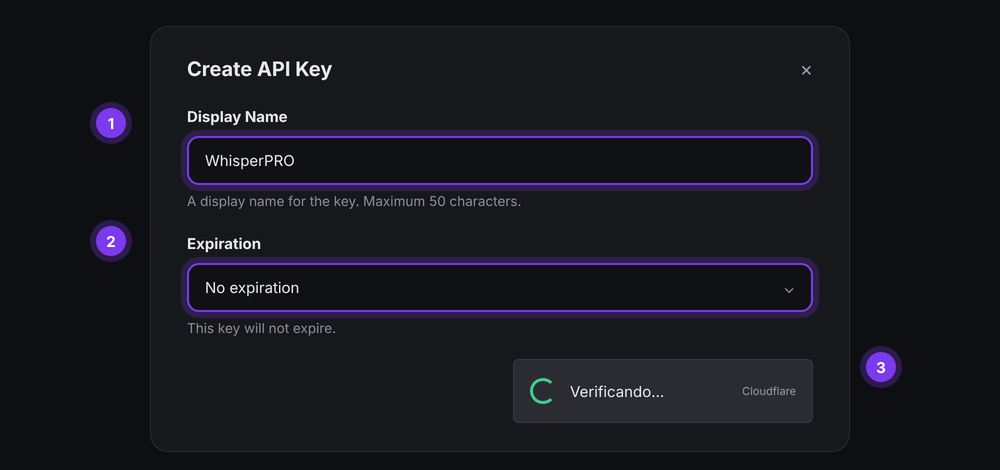
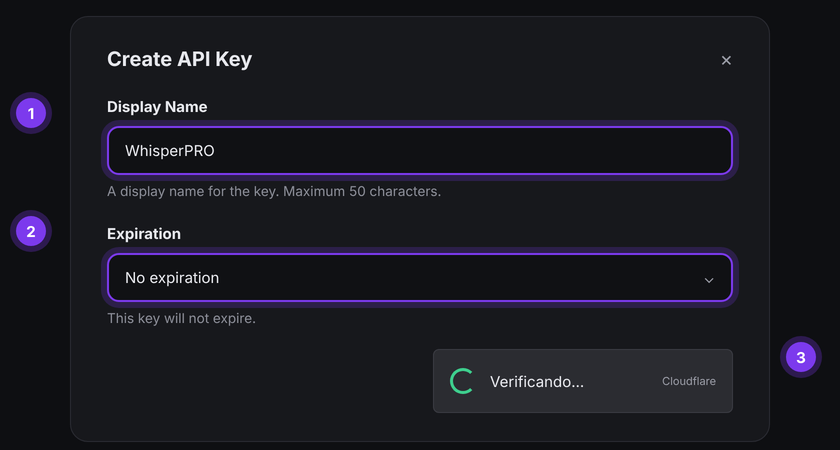
Landing en celular: encabezado, botones, tablas legales como tarjetas, toques más grandes y sin desborde horizontal
Claude-Session: https://claude.ai/code/session_01846rBp5x7d49h8jxCvNna2

diff --git a/landing/licencias/index.html b/landing/licencias/index.html
@@ -49,6 +49,18 @@ figure{margin:14px 0 6px}figure img{display:block;width:100%;height:auto;border-
 footer{border-top:1px solid #1b1e29;margin-top:72px;padding-top:28px}
 footer nav{display:flex;flex-wrap:wrap;gap:10px 26px;margin-bottom:16px}footer nav a{color:#aab0c4;text-decoration:none;font-size:15px}footer nav a:hover{color:#fff}
 @media (max-width:640px){.toc{columns:1}body{font-size:17px}}
+a{overflow-wrap:anywhere}
+@media (max-width:640px){
+.wrap{padding:24px 18px 72px}.top{margin-bottom:30px}
+table.resp,table.resp tbody,table.resp tr,table.resp td{display:block;width:100%}
+table.resp tr.cab{display:none}
+table.resp tr{border:1px solid #1b1e29;border-radius:14px;padding:8px 14px;margin:12px 0;background:#0e1016}
+table.resp td{border:0;padding:6px 0}
+table.resp td::before{content:attr(data-l);display:block;font:600 11px 'WP Mono',monospace;letter-spacing:.07em;color:#8b92a8;text-transform:uppercase;margin-bottom:2px}
+footer nav a{display:inline-block;padding:9px 0}
+.btn{display:block;width:100%;text-align:center;border:0}
+}
+
 </style>
 </head>
 <body><div class="wrap">
@@ -59,27 +71,27 @@ footer nav{display:flex;flex-wrap:wrap;gap:10px 26px;margin-bottom:16px}footer n
 <p>WhisperPRO está hecho por FESTUDIOS y usa componentes de terceros que se distribuyen con sus propias licencias. Agradecemos a sus autores. Esta lista resume los principales; los textos completos de cada licencia están disponibles en los proyectos originales y, para las tipografías, en la carpeta <code>fonts</code> de este sitio.</p>
 
 <h2>Tipografías</h2>
-<table><tr><th>Componente</th><th>Licencia</th></tr>
-<tr><td>Bricolage Grotesque — © 2022 The Bricolage Grotesque Project Authors</td><td>SIL Open Font License 1.1</td></tr>
-<tr><td>Martian Mono — © Evil Martians y colaboradores</td><td>SIL Open Font License 1.1</td></tr></table>
+<table class="resp"><tr class="cab"><th>Componente</th><th>Licencia</th></tr>
+<tr><td data-l="Componente">Bricolage Grotesque — © 2022 The Bricolage Grotesque Project Authors</td><td data-l="Licencia">SIL Open Font License 1.1</td></tr>
+<tr><td data-l="Componente">Martian Mono — © Evil Martians y colaboradores</td><td data-l="Licencia">SIL Open Font License 1.1</td></tr></table>
 <p>Las licencias de las dos tipografías están en <a href="fonts/LICENCIA-Bricolage-Grotesque-OFL.txt">LICENCIA-Bricolage-Grotesque-OFL.txt</a> y <a href="fonts/LICENCIA-Martian-Mono-OFL.txt">LICENCIA-Martian-Mono-OFL.txt</a>.</p>
 
 <h2>Aplicación de escritorio</h2>
-<table><tr><th>Componente</th><th>Licencia</th></tr>
-<tr><td>Python</td><td>Python Software Foundation License</td></tr>
-<tr><td>NumPy</td><td>BSD-3-Clause</td></tr>
-<tr><td>sounddevice</td><td>MIT</td></tr>
-<tr><td>keyboard</td><td>MIT</td></tr>
-<tr><td>pyperclip</td><td>BSD-3-Clause</td></tr>
-<tr><td>python-dotenv</td><td>BSD-3-Clause</td></tr>
-<tr><td>Pillow</td><td>MIT-CMU (HPND)</td></tr>
-<tr><td>pywebview</td><td>BSD-3-Clause</td></tr>
-<tr><td>pystray</td><td>LGPL-3.0</td></tr>
-<tr><td>Groq SDK, OpenAI SDK, Google Gen AI SDK</td><td>Apache-2.0</td></tr>
-<tr><td>faster-whisper (modo local, versión para desarrolladores)</td><td>MIT</td></tr>
-<tr><td>PyInstaller (empaquetado)</td><td>GPL-2.0 con excepción para aplicaciones empaquetadas</td></tr>
-<tr><td>Inno Setup (instalador)</td><td>Inno Setup License</td></tr>
-<tr><td>Microsoft Edge WebView2 Runtime</td><td>Términos de Microsoft</td></tr></table>
+<table class="resp"><tr class="cab"><th>Componente</th><th>Licencia</th></tr>
+<tr><td data-l="Componente">Python</td><td data-l="Licencia">Python Software Foundation License</td></tr>
+<tr><td data-l="Componente">NumPy</td><td data-l="Licencia">BSD-3-Clause</td></tr>
+<tr><td data-l="Componente">sounddevice</td><td data-l="Licencia">MIT</td></tr>
+<tr><td data-l="Componente">keyboard</td><td data-l="Licencia">MIT</td></tr>
+<tr><td data-l="Componente">pyperclip</td><td data-l="Licencia">BSD-3-Clause</td></tr>
+<tr><td data-l="Componente">python-dotenv</td><td data-l="Licencia">BSD-3-Clause</td></tr>
+<tr><td data-l="Componente">Pillow</td><td data-l="Licencia">MIT-CMU (HPND)</td></tr>
+<tr><td data-l="Componente">pywebview</td><td data-l="Licencia">BSD-3-Clause</td></tr>
+<tr><td data-l="Componente">pystray</td><td data-l="Licencia">LGPL-3.0</td></tr>
+<tr><td data-l="Componente">Groq SDK, OpenAI SDK, Google Gen AI SDK</td><td data-l="Licencia">Apache-2.0</td></tr>
+<tr><td data-l="Componente">faster-whisper (modo local, versión para desarrolladores)</td><td data-l="Licencia">MIT</td></tr>
+<tr><td data-l="Componente">PyInstaller (empaquetado)</td><td data-l="Licencia">GPL-2.0 con excepción para aplicaciones empaquetadas</td></tr>
+<tr><td data-l="Componente">Inno Setup (instalador)</td><td data-l="Licencia">Inno Setup License</td></tr>
+<tr><td data-l="Componente">Microsoft Edge WebView2 Runtime</td><td data-l="Licencia">Términos de Microsoft</td></tr></table>
 
 <h2>Servicios de terceros</h2>
 <p>La transcripción y la corrección se hacen con servicios externos que conectás con tu propia clave (por defecto, Groq). Su uso se rige por los términos y la política de privacidad de cada proveedor. Los nombres y marcas de terceros mencionados pertenecen a sus dueños y se usan solo para identificar compatibilidad.</p>

diff --git a/landing/contacto/index.html b/landing/contacto/index.html
@@ -49,6 +49,18 @@ figure{margin:14px 0 6px}figure img{display:block;width:100%;height:auto;border-
 footer{border-top:1px solid #1b1e29;margin-top:72px;padding-top:28px}
 footer nav{display:flex;flex-wrap:wrap;gap:10px 26px;margin-bottom:16px}footer nav a{color:#aab0c4;text-decoration:none;font-size:15px}footer nav a:hover{color:#fff}
 @media (max-width:640px){.toc{columns:1}body{font-size:17px}}
+a{overflow-wrap:anywhere}
+@media (max-width:640px){
+.wrap{padding:24px 18px 72px}.top{margin-bottom:30px}
+table.resp,table.resp tbody,table.resp tr,table.resp td{display:block;width:100%}
+table.resp tr.cab{display:none}
+table.resp tr{border:1px solid #1b1e29;border-radius:14px;padding:8px 14px;margin:12px 0;background:#0e1016}
+table.resp td{border:0;padding:6px 0}
+table.resp td::before{content:attr(data-l);display:block;font:600 11px 'WP Mono',monospace;letter-spacing:.07em;color:#8b92a8;text-transform:uppercase;margin-bottom:2px}
+footer nav a{display:inline-block;padding:9px 0}
+.btn{display:block;width:100%;text-align:center;border:0}
+}
+
 </style>
 </head>
 <body><div class="wrap">
@@ -59,19 +71,19 @@ footer nav{display:flex;flex-wrap:wrap;gap:10px 26px;margin-bottom:16px}footer n
 <p>WhisperPRO es una herramienta de <b>FESTUDIOS</b>, un estudio argentino que diseña y desarrolla webs, sistemas y apps a medida para negocios. Conocé el resto de nuestro trabajo en <a href="https://festudios.pro/?utm_source=whisperpro&amp;utm_medium=contacto&amp;utm_campaign=quienes-somos">festudios.pro</a>.</p>
 
 <h2>Escribinos</h2>
-<table><tr><th>Para</th><th>Cómo</th></tr>
-<tr><td>Soporte, errores y consultas sobre WhisperPRO</td><td><a href="mailto:festudioarg@gmail.com?subject=Soporte%20WhisperPRO">festudioarg@gmail.com</a></td></tr>
-<tr><td>Privacidad y datos personales</td><td><a href="mailto:festudioarg@gmail.com?subject=Privacidad%20WhisperPRO">festudioarg@gmail.com</a></td></tr>
-<tr><td>Baja, arrepentimiento y facturación (plan Pro)</td><td><a href="baja-y-arrepentimiento/">Cancelar o arrepentirte</a></td></tr>
-<tr><td>Un proyecto a medida para tu negocio</td><td><a href="https://festudios.pro/?utm_source=whisperpro&amp;utm_medium=contacto&amp;utm_campaign=proyecto">festudios.pro</a></td></tr></table>
+<table class="resp"><tr class="cab"><th>Para</th><th>Cómo</th></tr>
+<tr><td data-l="Para">Soporte, errores y consultas sobre WhisperPRO</td><td data-l="Cómo"><a href="mailto:festudioarg@gmail.com?subject=Soporte%20WhisperPRO">festudioarg@gmail.com</a></td></tr>
+<tr><td data-l="Para">Privacidad y datos personales</td><td data-l="Cómo"><a href="mailto:festudioarg@gmail.com?subject=Privacidad%20WhisperPRO">festudioarg@gmail.com</a></td></tr>
+<tr><td data-l="Para">Baja, arrepentimiento y facturación (plan Pro)</td><td data-l="Cómo"><a href="baja-y-arrepentimiento/">Cancelar o arrepentirte</a></td></tr>
+<tr><td data-l="Para">Un proyecto a medida para tu negocio</td><td data-l="Cómo"><a href="https://festudios.pro/?utm_source=whisperpro&amp;utm_medium=contacto&amp;utm_campaign=proyecto">festudios.pro</a></td></tr></table>
 <p><b>Horario de atención:</b> lunes a viernes, de 8 a 18 h (Argentina). <b>Primera respuesta:</b> dentro de las 24 horas hábiles.</p>
 
 <h2>Datos del proveedor</h2>
-<table><tr><th>Dato</th><th>Detalle</th></tr>
-<tr><td>Nombre</td><td>FESTUDIO ARGENTINA (marca «FESTUDIOS»)</td></tr>
-<tr><td>CUIT</td><td>20-36215734-0</td></tr>
-<tr><td>Domicilio comercial</td><td>Independencia 3800, Olavarría, Buenos Aires, Argentina</td></tr>
-<tr><td>Correo</td><td><a href="mailto:festudioarg@gmail.com">festudioarg@gmail.com</a></td></tr></table>
+<table class="resp"><tr class="cab"><th>Dato</th><th>Detalle</th></tr>
+<tr><td data-l="Dato">Nombre</td><td data-l="Detalle">FESTUDIO ARGENTINA (marca «FESTUDIOS»)</td></tr>
+<tr><td data-l="Dato">CUIT</td><td data-l="Detalle">20-36215734-0</td></tr>
+<tr><td data-l="Dato">Domicilio comercial</td><td data-l="Detalle">Independencia 3800, Olavarría, Buenos Aires, Argentina</td></tr>
+<tr><td data-l="Dato">Correo</td><td data-l="Detalle"><a href="mailto:festudioarg@gmail.com">festudioarg@gmail.com</a></td></tr></table>
 <p>Defensa del Consumidor: <a href="https://www.argentina.gob.ar/produccion/defensadelconsumidor" rel="noopener">argentina.gob.ar/produccion/defensadelconsumidor</a>.</p>
 
 <h2>Más información</h2>

diff --git a/landing/privacidad/index.html b/landing/privacidad/index.html
@@ -49,6 +49,18 @@ figure{margin:14px 0 6px}figure img{display:block;width:100%;height:auto;border-
 footer{border-top:1px solid #1b1e29;margin-top:72px;padding-top:28px}
 footer nav{display:flex;flex-wrap:wrap;gap:10px 26px;margin-bottom:16px}footer nav a{color:#aab0c4;text-decoration:none;font-size:15px}footer nav a:hover{color:#fff}
 @media (max-width:640px){.toc{columns:1}body{font-size:17px}}
+a{overflow-wrap:anywhere}
+@media (max-width:640px){
+.wrap{padding:24px 18px 72px}.top{margin-bottom:30px}
+table.resp,table.resp tbody,table.resp tr,table.resp td{display:block;width:100%}
+table.resp tr.cab{display:none}
+table.resp tr{border:1px solid #1b1e29;border-radius:14px;padding:8px 14px;margin:12px 0;background:#0e1016}
+table.resp td{border:0;padding:6px 0}
+table.resp td::before{content:attr(data-l);display:block;font:600 11px 'WP Mono',monospace;letter-spacing:.07em;color:#8b92a8;text-transform:uppercase;margin-bottom:2px}
+footer nav a{display:inline-block;padding:9px 0}
+.btn{display:block;width:100%;text-align:center;border:0}
+}
+
 </style>
 </head>
 <body><div class="wrap">
@@ -74,12 +86,12 @@ footer nav{display:flex;flex-wrap:wrap;gap:10px 26px;margin-bottom:16px}footer n
 <p>Como la aplicación trata tus datos dentro de tu equipo y los envía directamente al proveedor de IA que elegiste, FESTUDIOS no almacena ni accede a los datos de tu uso. Solo tratamos los datos que nos enviás vos por contacto (por ejemplo, tu correo si nos escribís o te anotás en una lista de espera).</p>
 
 <h2 id="datos">2. Qué datos se guardan en tu equipo</h2>
-<table><tr><th>Dato</th><th>Dónde</th><th>Para qué</th></tr>
-<tr><td>Historial de dictados: lo que dijiste (literal), lo que se escribió, lo descartado, fecha y duración</td><td>Archivo en la carpeta de datos de la app</td><td>Que puedas buscar, comparar y recuperar tus dictados</td></tr>
-<tr><td>Portapapeles: antes de pegar un dictado, se guarda como texto lo que tenías copiado (no se guardan imágenes ni archivos)</td><td>Archivo en la carpeta de datos</td><td>Que no pierdas lo que habías copiado</td></tr>
-<tr><td>Clave de IA y ajustes (atajos, capturas)</td><td>Archivos en la carpeta de datos</td><td>Que la app funcione con tu configuración</td></tr>
-<tr><td>Capturas de pantalla (si activás esa función)</td><td>Portapapeles y, si lo dejás activado, la carpeta Imágenes\WhisperPRO</td><td>La función de captura que elegiste</td></tr>
-<tr><td>Registro técnico (log)</td><td>Archivo en la carpeta de datos</td><td>Diagnosticar errores. No incluye el contenido de lo que dictás salvo que actives el modo de depuración</td></tr></table>
+<table class="resp"><tr class="cab"><th>Dato</th><th>Dónde</th><th>Para qué</th></tr>
+<tr><td data-l="Dato">Historial de dictados: lo que dijiste (literal), lo que se escribió, lo descartado, fecha y duración</td><td data-l="Dónde">Archivo en la carpeta de datos de la app</td><td data-l="Para qué">Que puedas buscar, comparar y recuperar tus dictados</td></tr>
+<tr><td data-l="Dato">Portapapeles: antes de pegar un dictado, se guarda como texto lo que tenías copiado (no se guardan imágenes ni archivos)</td><td data-l="Dónde">Archivo en la carpeta de datos</td><td data-l="Para qué">Que no pierdas lo que habías copiado</td></tr>
+<tr><td data-l="Dato">Clave de IA y ajustes (atajos, capturas)</td><td data-l="Dónde">Archivos en la carpeta de datos</td><td data-l="Para qué">Que la app funcione con tu configuración</td></tr>
+<tr><td data-l="Dato">Capturas de pantalla (si activás esa función)</td><td data-l="Dónde">Portapapeles y, si lo dejás activado, la carpeta Imágenes\WhisperPRO</td><td data-l="Para qué">La función de captura que elegiste</td></tr>
+<tr><td data-l="Dato">Registro técnico (log)</td><td data-l="Dónde">Archivo en la carpeta de datos</td><td data-l="Para qué">Diagnosticar errores. No incluye el contenido de lo que dictás salvo que actives el modo de depuración</td></tr></table>
 <p>La app registra únicamente en tu equipo y nunca envía estos archivos a FESTUDIOS.</p>
 
 <h2 id="salen">3. Qué sale de tu equipo</h2>

diff --git a/landing/index.html b/landing/index.html
@@ -117,6 +117,16 @@ details[open] summary::after{content:"−"}
 .faq-a{padding:0 4px 28px;color:#aab0c4;font-size:17px;line-height:1.7;max-width:760px}
 @media (max-width:1300px){.hero-guia{right:-24px;bottom:-110px;--w:140px}.hero-guia .bubble{display:none}}
 @media (max-width:760px){.navlinks{display:none!important}.sec{padding:72px 20px}.hero{padding:56px 20px 32px}.pill-sub{display:none}.btn{width:100%}.hero-guia{display:none}.stepguia{display:none}}
+@media (max-width:760px){
+  header{padding:14px 20px!important;gap:12px!important}
+  .nav-cta{width:auto!important;flex:none;min-height:44px!important;padding:0 18px!important}
+  .btn{white-space:normal;text-align:center;line-height:1.2;min-height:52px;padding:10px 20px;font-size:17px}
+  .navlink{display:inline-block;padding:10px 2px}
+  footer{padding:36px 20px 44px!important}
+  footer nav{gap:2px 22px!important}
+  .soon-tag{font-size:11px}
+  .sec .wrap>div[style*="flex-wrap"]{flex-direction:column}
+}
 @media (prefers-reduced-motion:reduce){*{animation:none!important;scroll-behavior:auto!important}}
 </style>
 </head>
@@ -135,7 +145,7 @@ details[open] summary::after{content:"−"}
     <a class="navlink" href="#precios">Precios</a>
     <a class="navlink" href="#faq">Preguntas</a>
   </nav>
-  <a class="btn btn-p" href="descargar/" style="min-height:46px;padding:0 20px;font-size:15px;border-radius:12px">Descargar</a>
+  <a class="btn btn-p nav-cta" href="descargar/" style="min-height:46px;padding:0 20px;font-size:15px;border-radius:12px">Descargar</a>
 </header>
 
 <main>

diff --git a/landing/baja-y-arrepentimiento/index.html b/landing/baja-y-arrepentimiento/index.html
@@ -49,6 +49,18 @@ figure{margin:14px 0 6px}figure img{display:block;width:100%;height:auto;border-
 footer{border-top:1px solid #1b1e29;margin-top:72px;padding-top:28px}
 footer nav{display:flex;flex-wrap:wrap;gap:10px 26px;margin-bottom:16px}footer nav a{color:#aab0c4;text-decoration:none;font-size:15px}footer nav a:hover{color:#fff}
 @media (max-width:640px){.toc{columns:1}body{font-size:17px}}
+a{overflow-wrap:anywhere}
+@media (max-width:640px){
+.wrap{padding:24px 18px 72px}.top{margin-bottom:30px}
+table.resp,table.resp tbody,table.resp tr,table.resp td{display:block;width:100%}
+table.resp tr.cab{display:none}
+table.resp tr{border:1px solid #1b1e29;border-radius:14px;padding:8px 14px;margin:12px 0;background:#0e1016}
+table.resp td{border:0;padding:6px 0}
+table.resp td::before{content:attr(data-l);display:block;font:600 11px 'WP Mono',monospace;letter-spacing:.07em;color:#8b92a8;text-transform:uppercase;margin-bottom:2px}
+footer nav a{display:inline-block;padding:9px 0}
+.btn{display:block;width:100%;text-align:center;border:0}
+}
+
 </style>
 </head>
 <body><div class="wrap">

diff --git a/landing/descargar/index.html b/landing/descargar/index.html
@@ -49,6 +49,18 @@ figure{margin:14px 0 6px}figure img{display:block;width:100%;height:auto;border-
 footer{border-top:1px solid #1b1e29;margin-top:72px;padding-top:28px}
 footer nav{display:flex;flex-wrap:wrap;gap:10px 26px;margin-bottom:16px}footer nav a{color:#aab0c4;text-decoration:none;font-size:15px}footer nav a:hover{color:#fff}
 @media (max-width:640px){.toc{columns:1}body{font-size:17px}}
+a{overflow-wrap:anywhere}
+@media (max-width:640px){
+.wrap{padding:24px 18px 72px}.top{margin-bottom:30px}
+table.resp,table.resp tbody,table.resp tr,table.resp td{display:block;width:100%}
+table.resp tr.cab{display:none}
+table.resp tr{border:1px solid #1b1e29;border-radius:14px;padding:8px 14px;margin:12px 0;background:#0e1016}
+table.resp td{border:0;padding:6px 0}
+table.resp td::before{content:attr(data-l);display:block;font:600 11px 'WP Mono',monospace;letter-spacing:.07em;color:#8b92a8;text-transform:uppercase;margin-bottom:2px}
+footer nav a{display:inline-block;padding:9px 0}
+.btn{display:block;width:100%;text-align:center;border:0}
+}
+
 </style>
 </head>
 <body><div class="wrap">

diff --git a/landing/pro/index.html b/landing/pro/index.html
@@ -49,6 +49,18 @@ figure{margin:14px 0 6px}figure img{display:block;width:100%;height:auto;border-
 footer{border-top:1px solid #1b1e29;margin-top:72px;padding-top:28px}
 footer nav{display:flex;flex-wrap:wrap;gap:10px 26px;margin-bottom:16px}footer nav a{color:#aab0c4;text-decoration:none;font-size:15px}footer nav a:hover{color:#fff}
 @media (max-width:640px){.toc{columns:1}body{font-size:17px}}
+a{overflow-wrap:anywhere}
+@media (max-width:640px){
+.wrap{padding:24px 18px 72px}.top{margin-bottom:30px}
+table.resp,table.resp tbody,table.resp tr,table.resp td{display:block;width:100%}
+table.resp tr.cab{display:none}
+table.resp tr{border:1px solid #1b1e29;border-radius:14px;padding:8px 14px;margin:12px 0;background:#0e1016}
+table.resp td{border:0;padding:6px 0}
+table.resp td::before{content:attr(data-l);display:block;font:600 11px 'WP Mono',monospace;letter-spacing:.07em;color:#8b92a8;text-transform:uppercase;margin-bottom:2px}
+footer nav a{display:inline-block;padding:9px 0}
+.btn{display:block;width:100%;text-align:center;border:0}
+}
+
 </style>
 </head>
 <body><div class="wrap">

diff --git a/landing/terminos/index.html b/landing/terminos/index.html
@@ -49,6 +49,18 @@ figure{margin:14px 0 6px}figure img{display:block;width:100%;height:auto;border-
 footer{border-top:1px solid #1b1e29;margin-top:72px;padding-top:28px}
 footer nav{display:flex;flex-wrap:wrap;gap:10px 26px;margin-bottom:16px}footer nav a{color:#aab0c4;text-decoration:none;font-size:15px}footer nav a:hover{color:#fff}
 @media (max-width:640px){.toc{columns:1}body{font-size:17px}}
+a{overflow-wrap:anywhere}
+@media (max-width:640px){
+.wrap{padding:24px 18px 72px}.top{margin-bottom:30px}
+table.resp,table.resp tbody,table.resp tr,table.resp td{display:block;width:100%}
+table.resp tr.cab{display:none}
+table.resp tr{border:1px solid #1b1e29;border-radius:14px;padding:8px 14px;margin:12px 0;background:#0e1016}
+table.resp td{border:0;padding:6px 0}
+table.resp td::before{content:attr(data-l);display:block;font:600 11px 'WP Mono',monospace;letter-spacing:.07em;color:#8b92a8;text-transform:uppercase;margin-bottom:2px}
+footer nav a{display:inline-block;padding:9px 0}
+.btn{display:block;width:100%;text-align:center;border:0}
+}
+
 </style>
 </head>
 <body><div class="wrap">

diff --git a/landing/generar_legales.py b/landing/generar_legales.py
@@ -9,6 +9,7 @@ revise un profesional matriculado en Argentina y que se completen los datos marc
 """
 import json
 import os
+import re
 
 RAIZ = os.path.dirname(os.path.abspath(__file__))
 FECHA = "12 de octubre de 2026"
@@ -68,6 +69,18 @@ figure{margin:14px 0 6px}figure img{display:block;width:100%;height:auto;border-
 footer{border-top:1px solid #1b1e29;margin-top:72px;padding-top:28px}
 footer nav{display:flex;flex-wrap:wrap;gap:10px 26px;margin-bottom:16px}footer nav a{color:#aab0c4;text-decoration:none;font-size:15px}footer nav a:hover{color:#fff}
 @media (max-width:640px){.toc{columns:1}body{font-size:17px}}
+a{overflow-wrap:anywhere}
+@media (max-width:640px){
+.wrap{padding:24px 18px 72px}.top{margin-bottom:30px}
+table.resp,table.resp tbody,table.resp tr,table.resp td{display:block;width:100%}
+table.resp tr.cab{display:none}
+table.resp tr{border:1px solid #1b1e29;border-radius:14px;padding:8px 14px;margin:12px 0;background:#0e1016}
+table.resp td{border:0;padding:6px 0}
+table.resp td::before{content:attr(data-l);display:block;font:600 11px 'WP Mono',monospace;letter-spacing:.07em;color:#8b92a8;text-transform:uppercase;margin-bottom:2px}
+footer nav a{display:inline-block;padding:9px 0}
+.btn{display:block;width:100%;text-align:center;border:0}
+}
+
 """
 
 
@@ -75,6 +88,24 @@ def pie(actual):
     nav = "".join(f'<a href="{r}/"{" aria-current=\"page\" style=\"color:#fff\"" if r == actual else ""}>{t}</a>' for r, t in PAGINAS)
     return f"""<footer><nav aria-label="Información legal">{nav}<a href="./">Volver a WhisperPRO</a></nav>
 <p class="mono">{EMISOR} · <a href="https://festudios.pro/?utm_source=whisperpro&amp;utm_medium=legal&amp;utm_campaign=pie">festudios.pro</a> · Documento {VERSION} · Actualizado el {FECHA}</p></footer>"""
+
+
+def tablas_responsivas(html):
+    """En el celular, las tablas con encabezado se muestran como tarjetas (cada celda lleva su rótulo)."""
+    def una(m):
+        t = m.group(0)
+        filas = re.findall(r'<tr>.*?</tr>', t, flags=re.S)
+        heads = re.findall(r'<th>(.*?)</th>', filas[0], flags=re.S) if filas else []
+        if not heads:
+            return t
+        def etiquetar(r):
+            it = iter(heads)
+            return re.sub(r'<td>', lambda _: '<td data-l="%s">' % re.sub(r'<.*?>', '', next(it, '')).replace('"', ''), r)
+        for r in filas[1:]:
+            t = t.replace(r, etiquetar(r), 1)
+        t = t.replace(filas[0], filas[0].replace('<tr>', '<tr class="cab">', 1), 1)
+        return t.replace('<table>', '<table class="resp">', 1)
+    return re.sub(r'<table>.*?</table>', una, html, flags=re.S)
 
 
 def pagina(ruta, titulo, descripcion, cuerpo):
@@ -95,7 +126,7 @@ def pagina(ruta, titulo, descripcion, cuerpo):
 <div class="top"><a class="brand" href="./"><img src="img/logo-64.png" alt="" width="32" height="32"><span>Whisper<b>PRO</b></span></a><span class="mono"><a href="https://festudios.pro/?utm_source=whisperpro&amp;utm_medium=legal&amp;utm_campaign=desarrollado-por">Desarrollado por FESTUDIOS</a></span></div>
 <h1>{titulo}</h1>
 {"" if ruta in EXTRA else f"<p class=\"mono\">Documento {VERSION} · Última actualización: {FECHA}</p>"}
-{cuerpo}
+{tablas_responsivas(cuerpo)}
 {pie(ruta)}
 </div></body></html>
 """
